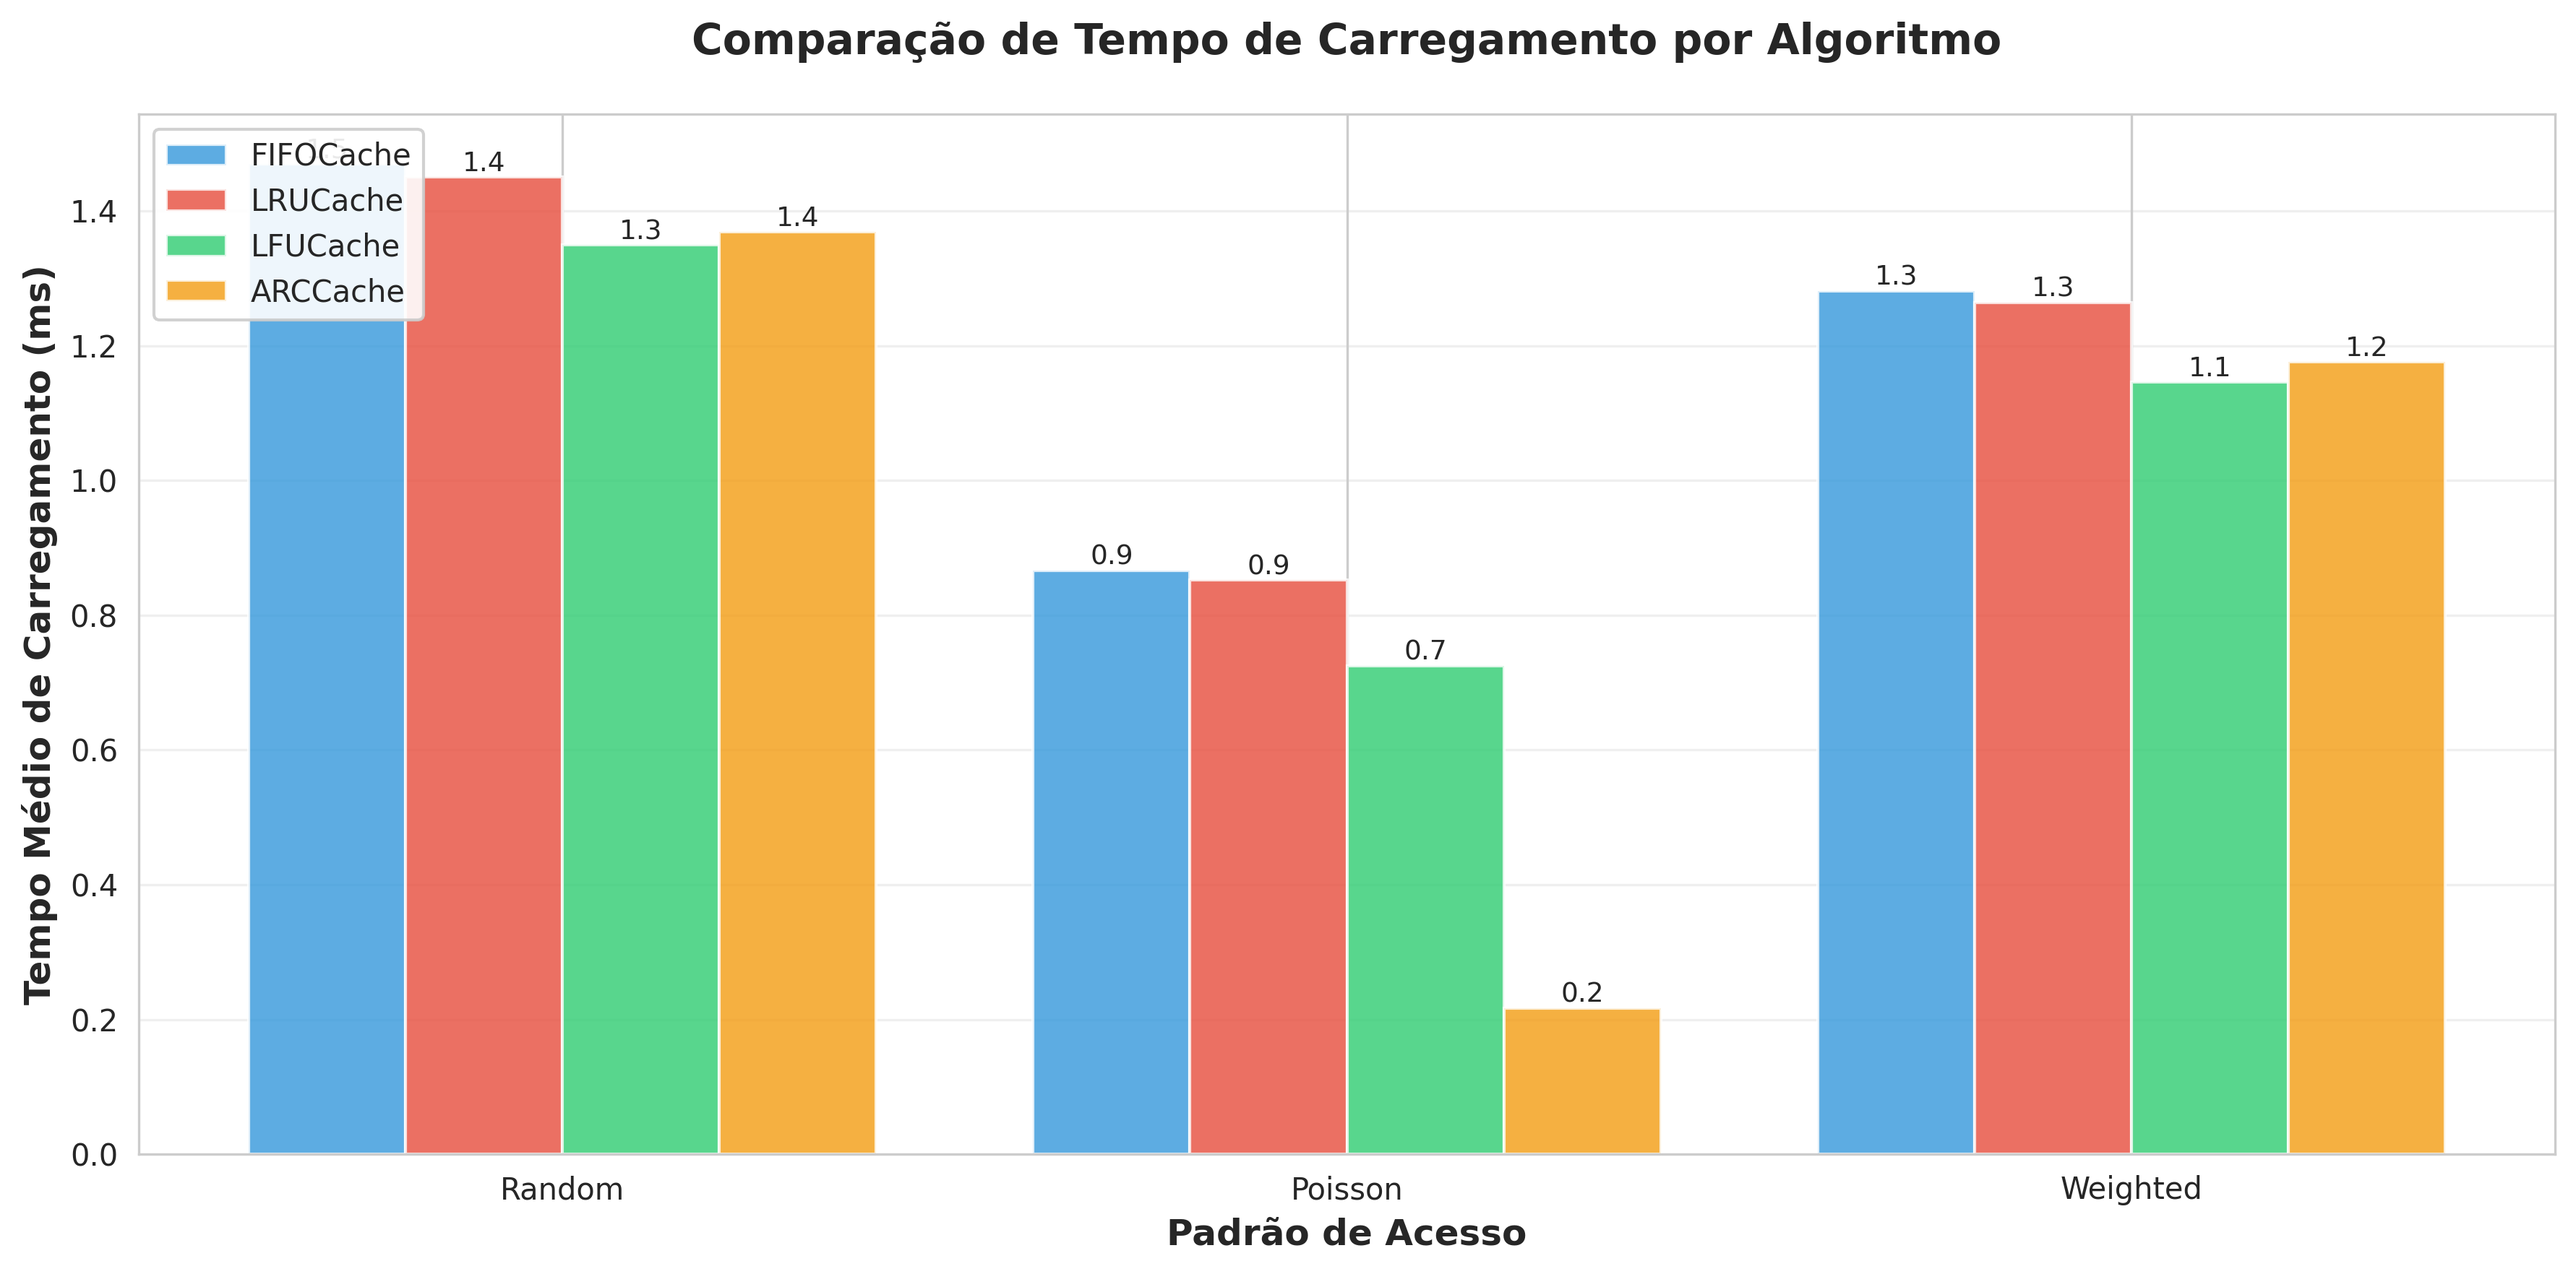
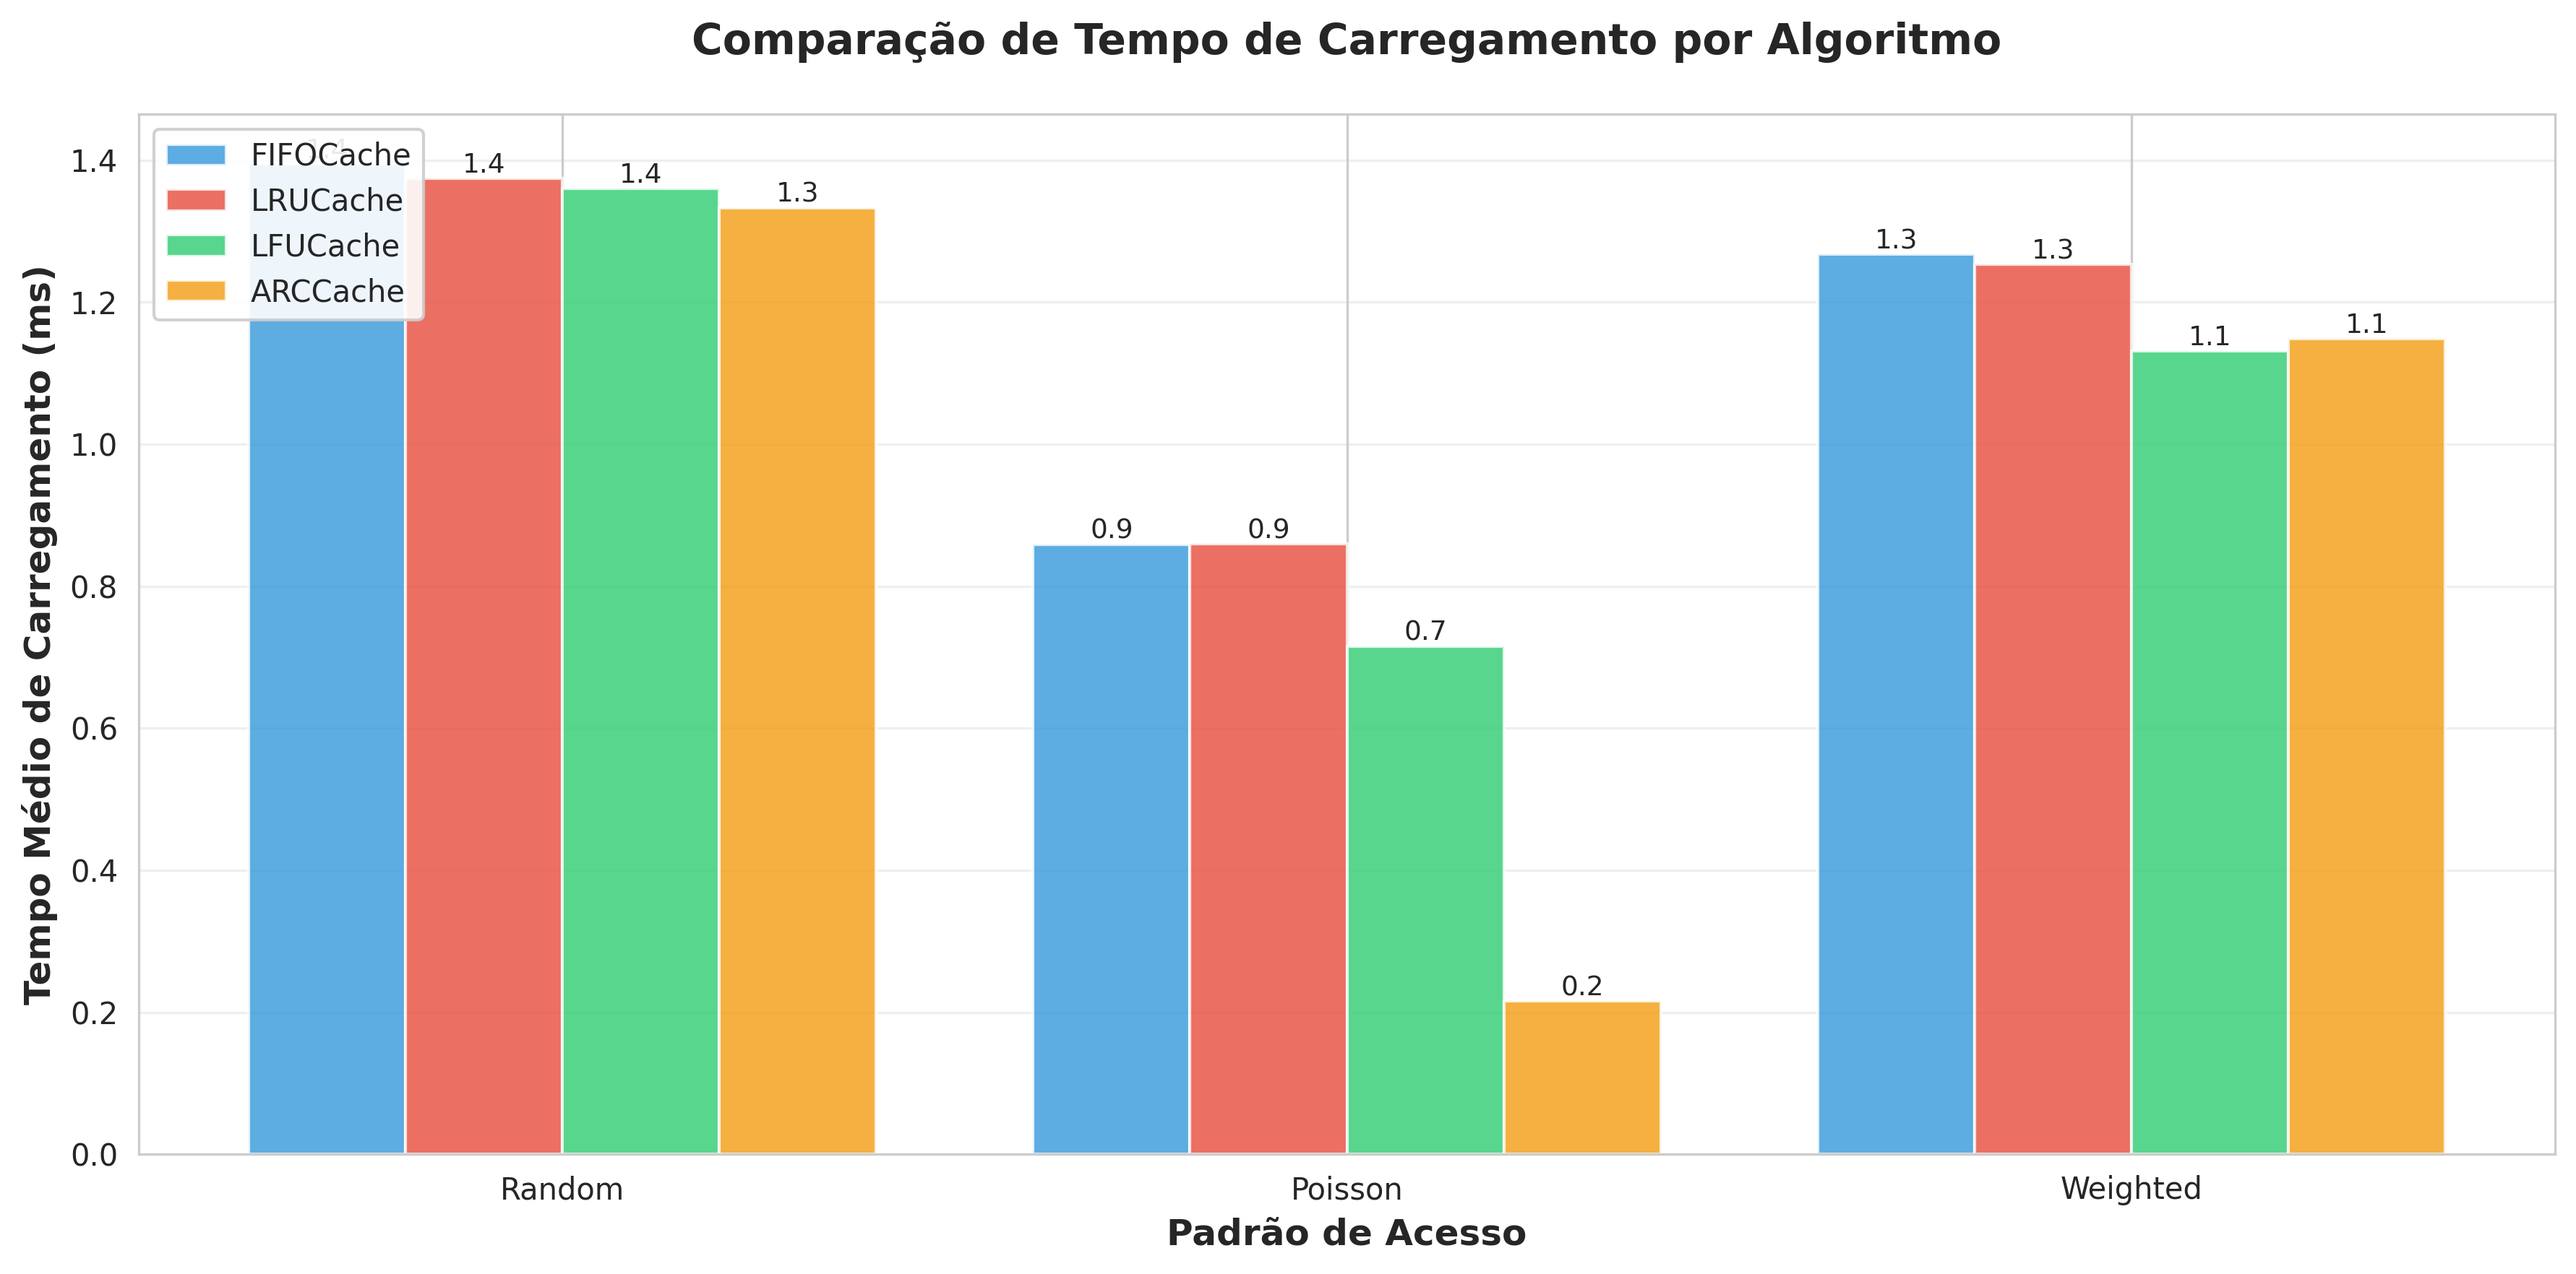
Ajustes nas métricas de hit e miss no ARC algorithm, não estava contabilizando 100% das requisições. Atualizações de README e criação do requirements.txt. Ajustes de interface também foram adicionadas.

diff --git a/simulation/simulation_mode.py b/simulation/simulation_mode.py
@@ -47,10 +47,10 @@ def run_simulation_mode(loader: TextLoader,
 ║  • Gerar relatórios visuais comparativos                         ║
 ║                                                                  ║
 ║  Algoritmos a serem testados:                                    ║
-║    ✓ FIFO (First In, First Out)                                 ║
-║    ✓ LRU (Least Recently Used)                                  ║
-║    ✓ LFU (Least Frequently Used)                                ║
-║    ✓ ARC (Adaptive Replacement Cache) ⭐ Avançado              ║
+║    ✓ FIFO (First In, First Out)                                  ║
+║    ✓ LRU (Least Recently Used)                                   ║
+║    ✓ LFU (Least Frequently Used)                                 ║
+║    ✓ ARC (Adaptive Replacement Cache) ⭐ Avançado                ║
 ║                                                                  ║
 ║  Padrões de acesso:                                              ║
 ║    • Aleatório: distribuição uniforme                            ║

diff --git a/algorithms/arc_cache.py b/algorithms/arc_cache.py
@@ -89,10 +89,12 @@ class ARCCache(CacheInterface):
         # CASE 2: HIT em B1 (texto foi removido recentemente de LRU)
         elif text_number in self.B1:
             self._handle_ghost_hit_B1(text_number)
+            self.misses += 1 #É considerado miss pois não está realmente no cache, é utilizado apenas para "aprendizado" do algoritmo
             
         # CASE 3: HIT em B2 (texto foi removido recentemente de LFU)  
         elif text_number in self.B2:
             self._handle_ghost_hit_B2(text_number)
+            self.misses += 1 #É considerado miss pois não está realmente no cache, é utilizado apenas para "aprendizado" do algoritmo
         
         # CASE 4: MISS completo (não está em nenhuma lista)
         else:

diff --git a/core/cache_interface.py b/core/cache_interface.py
@@ -131,6 +131,13 @@ class BaseCache(CacheInterface):
     Implementação base com funcionalidades comuns.
     Pode ser usado como exemplo ou classe auxiliar.
     """
+    def __init__(self, capacity: int = 10):
+        """
+        Inicializa a BaseCache, garantindo que o construtor da
+        CacheInterface seja chamado para inicializar as métricas.
+        """
+        super().__init__(capacity)
+
     
     def get(self, text_number: int, loader_function) -> Tuple[str, float, bool]:
         """

diff --git a/README.md b/README.md
@@ -1,8 +1,93 @@
-Aplicativo em terminal desenvolvido para otimizar a leitura de textos em disco lento utilizando diferentes algoritmos de cache. O projeto simula o acesso de múltiplos usuários, mede cache hit/miss e tempo de resposta, e gera relatórios comparativos para identificar o algoritmo mais eficiente (FIFO, LRU e LFU).
+# Simulador de Algoritmos de Cache para Leitura de Textos
 
-# Dependências principais do projeto
-numpy>=1.21.0
-matplotlib>=3.4.0
-seaborn>=0.11.0
-requests>=2.26.0  # Para baixar textos do Project Gutenberg
-pandas>=1.3.0     # Para análise de dados adicional
+Este projeto é um aplicativo de terminal desenvolvido para simular e analisar a performance de diferentes algoritmos de cache (FIFO, LRU, LFU) em um cenário de leitura de textos a partir de um disco lento.
+
+A simulação modela o acesso concorrente de múltiplos "usuários" a um conjunto de 100 arquivos de texto, utilizando diferentes padrões de acesso (aleatório, Poisson e ponderado). Ao final, o sistema gera um relatório visual completo com gráficos comparativos, permitindo uma análise detalhada da eficiência de cada algoritmo em termos de taxa de acertos (hit rate) e tempo de resposta.
+
+## ✨ Funcionalidades
+
+- **Simulação de Disco Lento**: O carregamento de arquivos do disco simula a latência de um sistema de armazenamento lento.
+- **Algoritmos de Cache**: Implementação e comparação dos algoritmos **FIFO** (First-In, First-Out), **LRU** (Least Recently Used) e **LFU** (Least Frequently Used).
+- **Múltiplos Usuários e Padrões de Acesso**: Simula o acesso concorrente de vários usuários com três padrões distintos:
+  - **Aleatório**: Acessos uniformemente distribuídos entre todos os textos.
+  - **Poisson**: Acessos concentrados em uma região específica de textos, simulando "localidade de referência".
+  - **Ponderado**: Acessos com maior probabilidade em uma "região quente" de textos pré-definida.
+- **Geração de Relatórios**: Criação automática de gráficos e visualizações para análise de performance, incluindo:
+  - Comparação de Taxa de Acertos (Hit Rate).
+  - Comparação de Tempo Médio de Carregamento.
+  - Distribuição de Cache Misses por texto.
+  - Heatmap de Performance (Algoritmo vs. Padrão de Acesso).
+  - Análise de textos mais acessados.
+
+## 📂 Estrutura do Projeto
+
+```
+grupo10_RA2/
+├── core/                # Módulos centrais (cache, text_loader, etc.)
+├── docs/                # Diretório para os relatórios e gráficos gerados
+├── simulation/          # Módulos de simulação e geração de relatórios
+├── texts/               # Arquivos de texto utilizados na simulação
+├── OsFilhosdoPadre.txt  # Texto original para ser processado
+├── divide_textos.py     # Script para preparar os arquivos de texto
+├── main.py              # Ponto de entrada principal da simulação (não fornecido no contexto)
+└── README.md            # Este arquivo
+```
+
+## 🚀 Instalação e Uso
+
+### 1. Pré-requisitos
+
+- Python 3.8 ou superior
+
+### 2. Instalação
+
+Clone o repositório e instale as dependências:
+
+```bash
+# Clone este repositório
+git clone <url-do-seu-repositorio>
+cd grupo10_RA2
+
+# Crie e ative um ambiente virtual (recomendado)
+python -m venv venv
+source venv/bin/activate  # No Windows: venv\Scripts\activate
+
+# Instale as dependências
+pip install -r requirements.txt
+```
+
+### 3. Preparação dos Textos
+
+O projeto utiliza um conjunto de 100 arquivos de texto. Para gerá-los a partir do arquivo `OsFilhosdoPadre.txt`, execute:
+
+```bash
+python divide_textos.py
+```
+
+Isso criará o diretório `texts/` com 100 arquivos numerados, cada um contendo aproximadamente 1000 palavras.
+
+### 4. Executando a Simulação
+
+Para iniciar a simulação e gerar os relatórios, execute o script principal do projeto:
+
+```bash
+python main.py
+```
+
+Ao final da execução, os gráficos comparativos serão salvos no diretório `docs/`.
+
+## 📦 Dependências
+
+As dependências do projeto estão listadas no arquivo `requirements.txt` e podem ser instaladas com `pip`.
+
+- `numpy>=1.21.0`
+- `matplotlib>=3.4.0`
+- `seaborn>=0.11.0`
+- `requests>=2.26.0`
+- `pandas>=1.3.0`
+
+Para gerar o arquivo `requirements.txt` a partir da lista acima, você pode usar:
+
+```bash
+pip freeze > requirements.txt
+```

diff --git a/simulation/README.md b/simulation/README.md
@@ -1,1 +1,13 @@
-simulation
+# Módulos de Simulação e Relatórios
+
+Este diretório abriga toda a lógica para executar as simulações de performance dos algoritmos de cache e para gerar os relatórios visuais com os resultados.
+
+## Conteúdo
+
+-   **`simulation_engine.py`**: O motor da simulação. Orquestra a execução dos testes para cada algoritmo, gerenciando múltiplos usuários e padrões de acesso.
+
+-   **`request_generator.py`**: Responsável por criar as sequências de requisições de acesso aos textos, seguindo os padrões definidos (aleatório, Poisson e ponderado).
+
+-   **`report_generator.py`**: Gera todos os gráficos e visualizações comparativas (Hit Rate, Tempo de Carregamento, Heatmaps, etc.) a partir dos dados coletados pela simulação.
+
+-   **`simulation_mode.py`**: Ponto de entrada que integra todos os componentes acima para executar o "modo de simulação" completo, desde a configuração até a apresentação dos resultados e recomendações.

diff --git a/docs/README.md b/docs/README.md
@@ -1,1 +1,14 @@
-docs
+# Relatórios e Gráficos da Simulação
+
+Este diretório armazena todos os relatórios visuais e gráficos gerados pelo `report_generator.py` ao final da execução do modo de simulação.
+
+Os arquivos aqui presentes são o resultado da análise comparativa de performance entre os diferentes algoritmos de cache (FIFO, LRU, LFU, ARC) sob vários padrões de acesso.
+
+## Arquivos Gerados
+
+-   `hit_rate_comparison.png`: Comparativo da Taxa de Acertos (Hit Rate).
+-   `load_time_comparison.png`: Comparativo do Tempo Médio de Carregamento.
+-   `miss_distribution.png`: Distribuição de Cache Misses por texto.
+-   `pattern_comparison.png`: Performance de Hit/Miss Rate por padrão de acesso.
+-   `performance_heatmap.png`: Heatmap de performance (Algoritmo vs. Padrão).
+-   `top_texts_analysis.png`: Análise dos textos mais acessados.

diff --git a/core/README.md b/core/README.md
@@ -1,1 +1,9 @@
-core
+# Módulos Core
+
+Este diretório contém os componentes fundamentais e a lógica de negócios do sistema, que não estão diretamente ligados à simulação ou aos algoritmos de cache específicos.
+
+## Conteúdo
+
+-   **`text_loader.py`**: Contém a classe `TextLoader`, responsável por carregar os arquivos de texto do disco. Este módulo simula a latência de um sistema de armazenamento lento, que é um pré-requisito para a análise de performance do cache.
+
+Esses módulos formam a base sobre a qual a simulação e a interação do usuário são construídas.

diff --git a/texts/README.md b/texts/README.md
@@ -1,1 +1,3 @@
-texts
+#Textos separados em 100 arquivos de 1000 palavras conforme descrito no requisito do projeto
+
+Estes textos foram gerados a partir do script "divide_textos.py" no diretório principal.
